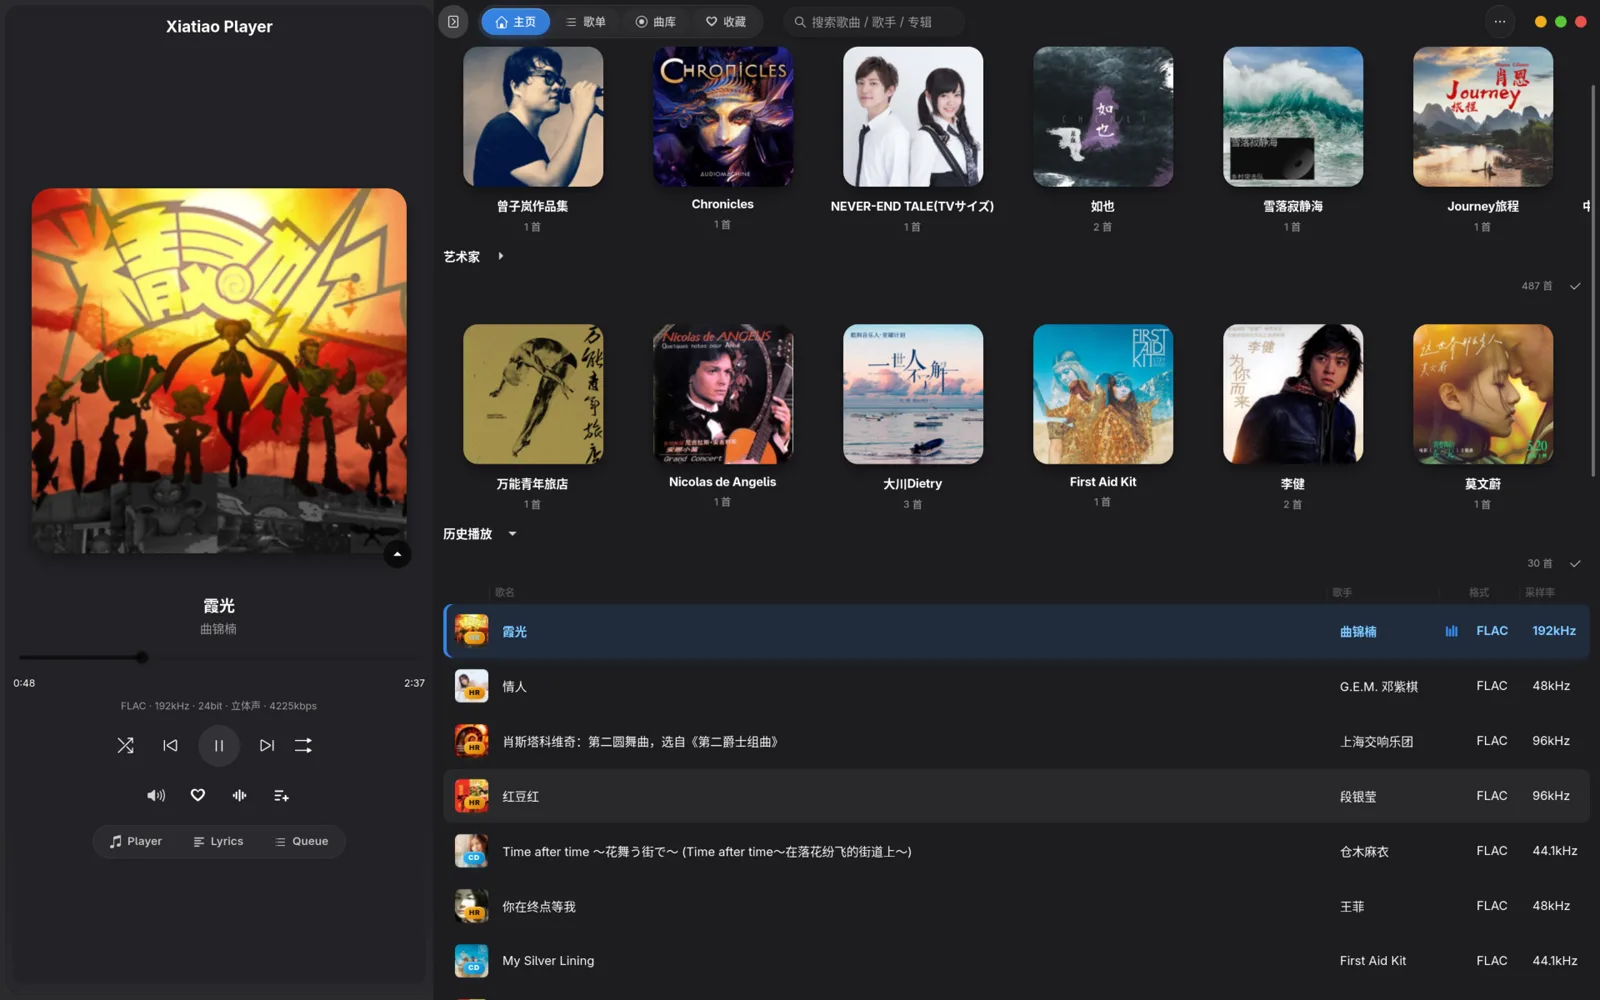
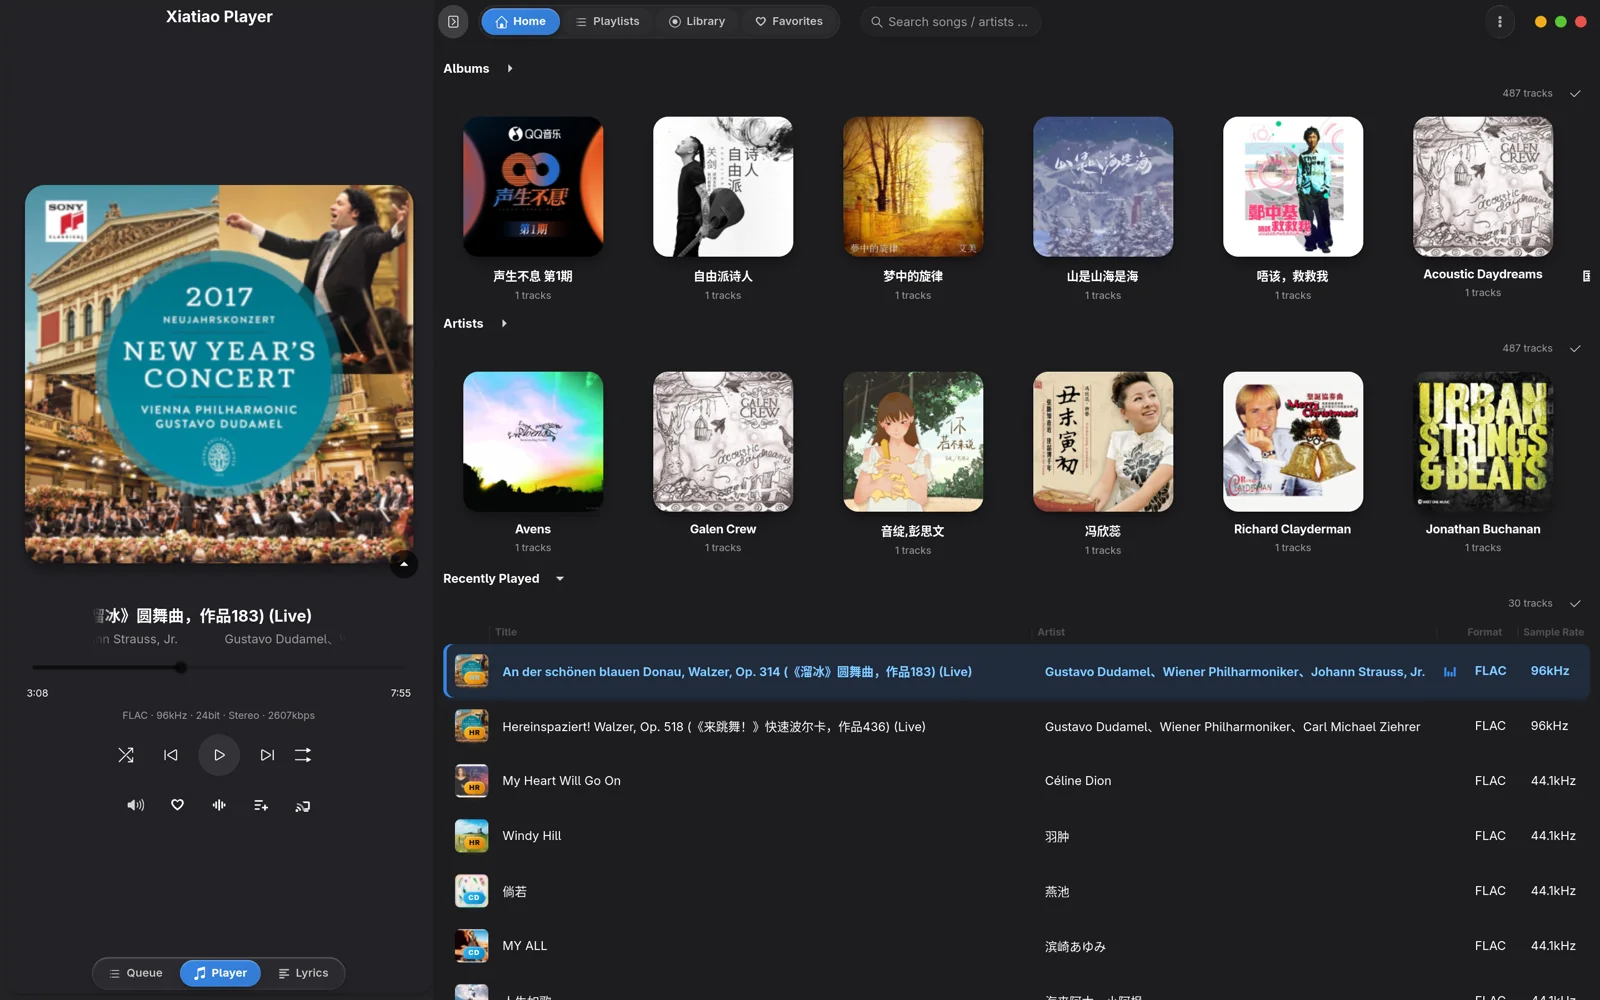
docs: 更新界面截图与 README
- 替换界面预览截图（主页暗/浅、背景跟随封面、沉浸页）
- README 安装命令更新到 1.0.3
- 补齐源码运行依赖列表（python3-cairo / librsvg2-common /
  webp-pixbuf-loader / iproute2 / libglib2.0-bin / xdg-utils / dbus-bin 等）

diff --git a/README.md b/README.md
@@ -99,7 +99,7 @@
 
 从 Releases 下载 .deb 后：
 
-    apt install ./xiatiao-player_1.0.2_amd64.deb
+    apt install ./xiatiao-player_1.0.3_amd64.deb
 
 （需要管理员权限；安装后程序在 /usr/lib/xiatiao-player/，启动器 /usr/bin/xiatiao-player，也可在应用菜单中找到「虾条播放器」。）
 
@@ -107,10 +107,12 @@
 
 系统依赖（Debian / Ubuntu）：
 
-    apt install python3-gi python3-gi-cairo python3-numpy python3-yaml \
-         python3-mutagen gir1.2-gtk-4.0 gir1.2-adw-1 gir1.2-gdkpixbuf-2.0 \
-         gir1.2-gstreamer-1.0 gir1.2-gst-plugins-base-1.0 \
-         ffmpeg pipewire pipewire-bin libasound2-dev
+    apt install python3-gi python3-gi-cairo python3-cairo python3-numpy \
+         python3-yaml python3-mutagen gir1.2-gtk-4.0 gir1.2-adw-1 \
+         gir1.2-gdkpixbuf-2.0 gir1.2-gstreamer-1.0 gir1.2-gst-plugins-base-1.0 \
+         librsvg2-common webp-pixbuf-loader \
+         ffmpeg pipewire pipewire-bin pulseaudio-utils \
+         iproute2 libglib2.0-bin xdg-utils dbus-bin
 
 构建并运行：
 
